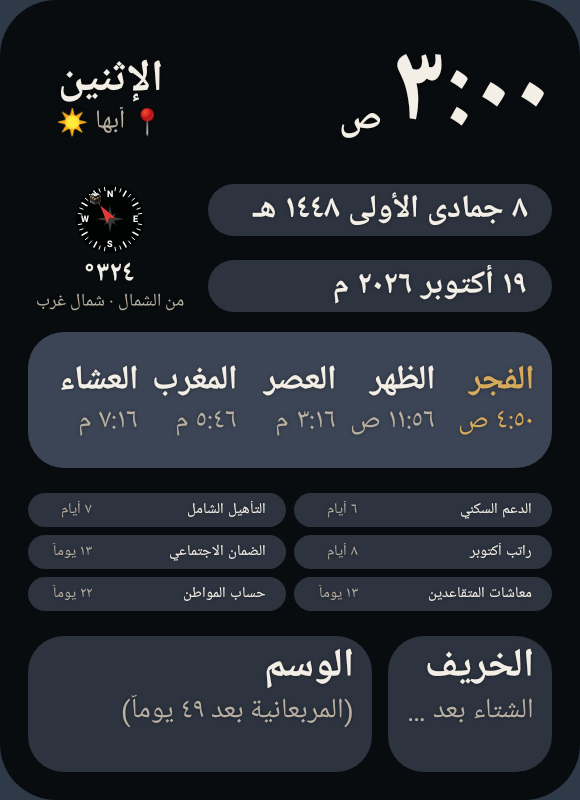
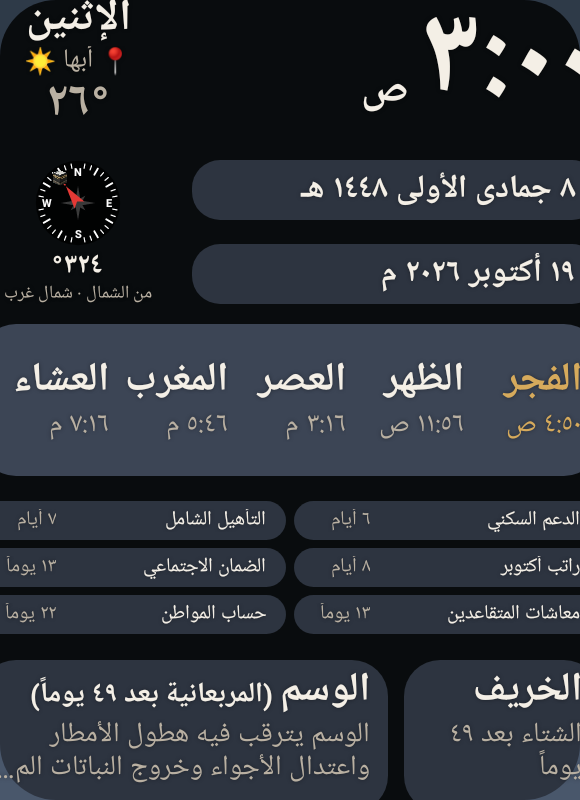
لمحة أندرويد: العناصر على لوحة ثابتة ٣٣٨×٤٤٠ متوسطة في الودجت فلا تكبر ولا تصغر مع إطارها على الشاشة الرئيسية (DECISIONS ٣٠)
Claude-Session: https://claude.ai/code/session_01G1Syvb9ovdsa3bx3n1bnp4

diff --git a/apps/lamha/android/app/src/main/kotlin/sa/lamha/lamha/widget/LamhaWidgetReceiver.kt b/apps/lamha/android/app/src/main/kotlin/sa/lamha/lamha/widget/LamhaWidgetReceiver.kt
@@ -190,6 +190,11 @@ class LamhaWidgetReceiver : HomeWidgetProvider() {
         /// هامش الخانة في التخطيط الحر: حشوة الورقة ٨dp وأمان ٤dp، لأن المحاكي يعطي الودجت أقل قليلاً من maxHeight.
         private const val FREE_FIT_SLACK_DP = 12f
 
+        /// المقاس المرجعي للوحة العناصر الثابتة (dp): مقاس المعاينة في التطبيق (previewWidgetSize) الذي يصمّم عليه
+        /// المالك، فيطابق ما يراه في شاشة «الودجت».
+        private const val CANVAS_WIDTH_DP = 338
+        private const val CANVAS_HEIGHT_DP = 440
+
         /// أدنى تصغير للعنوان والقيمة (tileMinFit)، ولسطور العمود الأيسر.
         private const val TILE_MIN_FIT = 0.7f
         private const val HEAD_MIN_FIT = 0.75f
@@ -306,6 +311,16 @@ class LamhaWidgetReceiver : HomeWidgetProvider() {
             // تراكمت نسخ مكررة فوق بعضها (لقطة المالك ١٣ نوفمبر).
             rv.removeAllViews(R.id.float_layer)
             applyFrame(rv, context, day, minWidth, maxHeight)
+            // اللوحة الثابتة (اختيار المالك ١٣ نوفمبر): العناصر تُحسب وتُرسم على مقاس مرجعي ثابت متوسط في الودجت، فلا
+            // تتبع تكبير الودجت أو تصغيرها من الشاشة الرئيسية. أندرويد أقدم من ١٢ لا يضبط مقاس الخانة من الكود،
+            // فيبقى الاتباع القديم.
+            val fixedCanvas = Build.VERSION.SDK_INT >= Build.VERSION_CODES.S && minWidth > 0
+            val widthDp = if (fixedCanvas) CANVAS_WIDTH_DP else minWidth
+            val heightDp = if (fixedCanvas) CANVAS_HEIGHT_DP else maxHeight
+            if (fixedCanvas) {
+                rv.setViewLayoutWidth(R.id.canvas, CANVAS_WIDTH_DP.toFloat(), TypedValue.COMPLEX_UNIT_DIP)
+                rv.setViewLayoutHeight(R.id.canvas, CANVAS_HEIGHT_DP.toFloat(), TypedValue.COMPLEX_UNIT_DIP)
+            }
 
             // الميزة ٥: المربعات الظاهرة من layout تُرصّ في صفوف (packRows)، وارتفاع كل صف بوزن
             // أطول مربع فيه (rowHeights) بالحجم الأساسي، فلا يتغير مقاس المربع بحجم الخط (الميزة ٥ب).
@@ -328,15 +343,15 @@ class LamhaWidgetReceiver : HomeWidgetProvider() {
             day.tree?.takeIf { LamhaLogic.treeDepth(it) <= LamhaLogic.FREE_MAX_DEPTH }?.let { tree ->
                 val leaves = mutableSetOf<String>().also { collectLeaves(tree, it) }
                 for (t in day.layout) if (t.visible && t.float != null) leaves.add(t.id)
-                val fenv = Env(context, ctx, day, accent, now, minWidth, sys, weatherText, leaves, fresh)
-                val cellDp = if (maxHeight > 0) (maxHeight - 20f) / LamhaLogic.FREE_ROWS else 0f
+                val fenv = Env(context, ctx, day, accent, now, widthDp, sys, weatherText, leaves, fresh)
+                val cellDp = if (heightDp > 0) (heightDp - 20f) / LamhaLogic.FREE_ROWS else 0f
                 rv.removeAllViews(R.id.grid)
                 // الجذر جزء وحيد في grid (عمود رأسي) بوزن كامل فيملؤه، بلا غلاف يزيد التداخل.
                 rv.addView(R.id.grid, freeNode(fenv, tree, byId, cellDp, vertical = true, weight = LamhaLogic.FREE_ROWS))
-                addFloats(rv, fenv, minWidth, maxHeight)
+                addFloats(rv, fenv, widthDp, heightDp)
                 return rv
             }
-            val env = Env(context, ctx, day, accent, now, minWidth, sys, weatherText, placed, fresh)
+            val env = Env(context, ctx, day, accent, now, widthDp, sys, weatherText, placed, fresh)
             fun scaleOf(id: String) = day.fontScale * (byId[id]?.fontScale ?: 1f)
             // الخانة المكدسة (التاريخان وتحتهما المدينة): مجموع ارتفاعيهما، وحشوة الخانة مرة.
             val parts = rows.map { r ->
@@ -354,9 +369,9 @@ class LamhaWidgetReceiver : HomeWidgetProvider() {
             val text = tallest.map { it.first }
             val pads = tallest.map { it.second }
             // أندرويد ١٢+ يضبط ارتفاع الصف (setViewLayoutHeight)، والأقدم صفوف متساوية.
-            val exact = Build.VERSION.SDK_INT >= Build.VERSION_CODES.S && maxHeight > 0
+            val exact = Build.VERSION.SDK_INT >= Build.VERSION_CODES.S && heightDp > 0
             val (_, heights) = LamhaLogic.rowHeights(
-                text, pads, if (maxHeight > 0) maxHeight - 20f else 0f, 0f, equal = !exact,
+                text, pads, if (heightDp > 0) heightDp - 20f else 0f, 0f, equal = !exact,
                 // صفوف المربعات تقتسم الباقي، وصفوف الساعة والتاريخين والمدينة بقدر محتواها.
                 flexible = rows.map { r -> r.any { it.id !in LINE_TILES } },
             )
@@ -375,7 +390,7 @@ class LamhaWidgetReceiver : HomeWidgetProvider() {
                             else -> R.layout.widget_tile_full
                         },
                     )
-                    val inner = if (maxHeight > 0) heights[r] - 8f else 0f
+                    val inner = if (heightDp > 0) heights[r] - 8f else 0f
                     val ids = LamhaLogic.cellElements(cell.id)
                     if (ids.all { it in CAPSULES }) {
                         // كبسولتا التاريخين (أو واحدة) تقتسمان الخانة بالوزن (widget_tile_capsule).

diff --git a/apps/lamha/DECISIONS.md b/apps/lamha/DECISIONS.md
@@ -219,3 +219,4 @@
 - **النموذج:** `frame` = `[x, y, w, h]` كسور من منطقة الودجت (كـ `FloatRect`)، في `LamhaSettings` ثم مفتاح `frame` في الجدول (غائب = تملأ الودجت). المستطيلات وشجرة القص والمربعات العائمة تُحسب من الودجت كلها لا من الإطار، فهي مستقلة عنه بالتصميم (اختبار الجدول يثبت أن `layout` و`tree` متطابقان بإطار وبلا إطار).
 - **الرسم:** المعاينة: لوحة الخلفية في `Positioned` والباقي فوقها كما هو. أندرويد: `bg_box` غلاف الخلفية بحشوة (`setViewPadding`) من `frame`، والشبكة بلا تغيير. آيفون: `frameBackground` في `containerBackground` بـ`position` (لم يُجرَّب على جهاز).
 - **التحرير:** زر «إطار الودجت» في شريط شاشة التخصيص يدخل وضع الإطار: سحب الإطار يحرّكه، والمقابض الأربعة تغيّر مقاسه (حد أدنى ٣٠٪ عرضاً و٢٠٪ ارتفاعاً)، و«إعادة الإطار» تعيده ليملأ الودجت. في هذا الوضع لا يتفاعل شيء من العناصر.
+- **تغيير حجم الودجت على الشاشة الرئيسية (اختيار المالك ١٣ نوفمبر، الخيار ٢ «ثابتة ومتوسطة، دون أن تصغر»):** تكبير الودجت أو تصغيرها بسحب إطارها الرمادي من الشاشة الرئيسية يغيّر الخلفية وحدها؛ العناصر لا تكبر ولا تصغر أبداً. تُحسب وتُرسم على **لوحة مرجعية ثابتة ٣٣٨×٤٤٠ dp** (مقاس المعاينة في التطبيق، فتطابق ما يراه المالك) متوسطة في الودجت (`canvas` في `widget_lamha.xml`، مقاسها بـ`setViewLayoutWidth/Height` من الكود). إن كانت الودجت أصغر من اللوحة يُقصّ ما يخرج عن الإطار بالتساوي من الأطراف، وإن كانت أكبر بقي حولها هامش خلفية. أندرويد أقدم من ١٢ لا يسمح بضبط المقاس من الكود، فيبقى فيه الاتباع القديم. آيفون لا يتأثر (مقاسات ودجته ثابتة من النظام).
